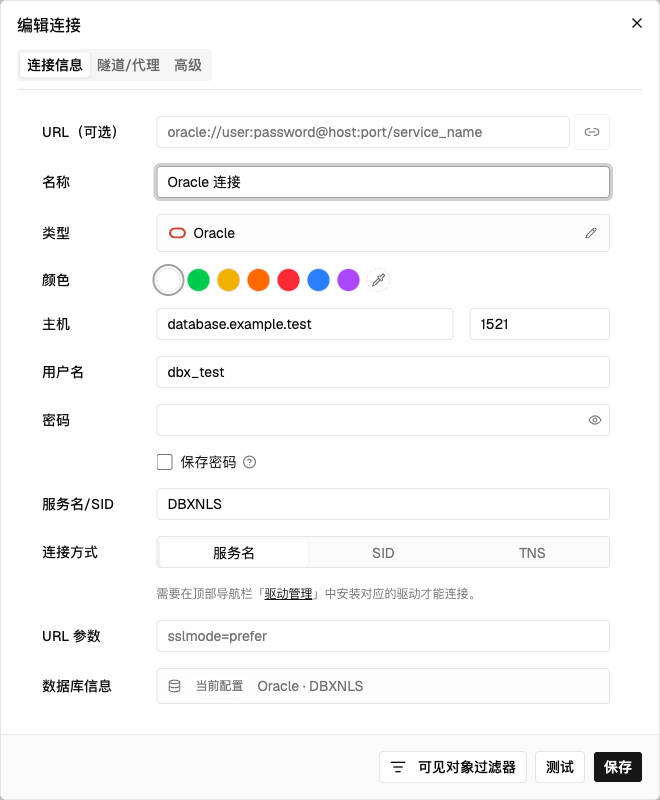
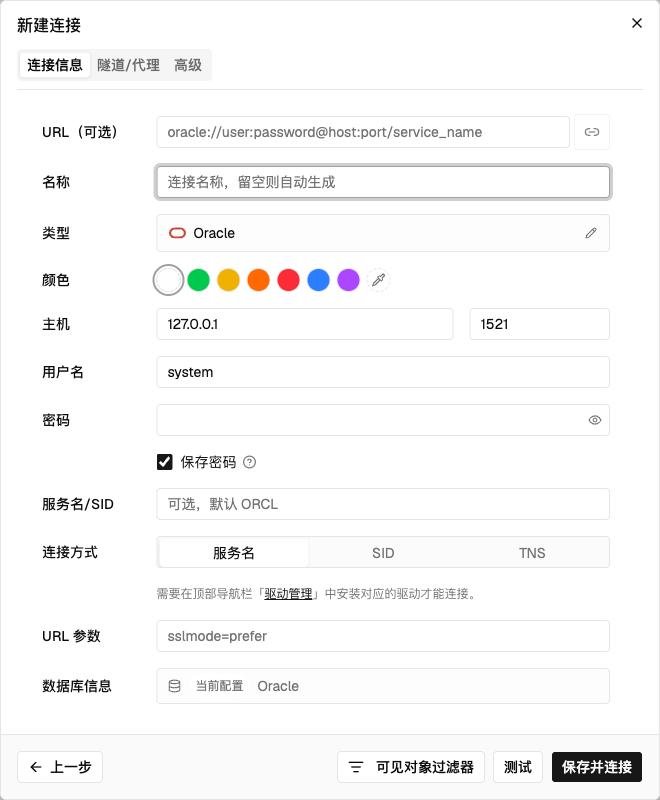
fix(connection): clarify advanced headings and hide detailed URL help

diff --git a/apps/desktop/src/components/connection/ConnectionDialog.vue b/apps/desktop/src/components/connection/ConnectionDialog.vue
@@ -3996,7 +3996,12 @@ const tlsCapableDatabaseTypes = new Set<DatabaseType>([
 const supportsTlsToggle = computed(() => tlsCapableDatabaseTypes.has(form.value.db_type) || supportsMysqlTlsTab(form.value.db_type, selectedType.value));
 const supportsCaCertificatePath = computed(() => form.value.db_type === "clickhouse" || form.value.db_type === "victoriametrics");
 const supportsGenericUrlParams = computed(() => form.value.db_type !== "manticoresearch" && form.value.db_type !== "hbase" && form.value.db_type !== "nebula");
-const showGenericUrlParamsHint = computed(() => form.value.db_type === "mysql" || form.value.db_type === "doris" || form.value.db_type === "starrocks");
+const genericUrlParamsHints = computed(() => {
+  const hints: string[] = [];
+  if (["mysql", "doris", "starrocks"].includes(form.value.db_type)) hints.push(t("connection.localInfilePathHint"));
+  if (form.value.db_type === "mysql") hints.push(t("connection.sessionVariablesHint"));
+  return hints;
+});
 const bareMysqlProfiles = new Set(["doris", "selectdb", "oceanbase"]);
 const supportsMysqlTlsOptions = computed(() => mysqlTlsOptionsSupported(form.value.db_type, selectedType.value));
 const supportsMysqlCleartextPasswordAuth = computed(() => form.value.db_type === "mysql" && !bareMysqlProfiles.has(selectedType.value));
@@ -9872,8 +9877,13 @@ function openExternalUrl(url: string) {
                       </div>
                     </div>
 
-                    <div v-if="supportsGenericUrlParams" class="connection-url-params-row grid grid-cols-4 items-start gap-4" :class="{ 'connection-url-params-row--compact': !showGenericUrlParamsHint, 'connection-url-params-row--with-hint': showGenericUrlParamsHint }">
-                      <Label for="connection-url-params" :class="[connectionLabelClass, 'connection-url-params-label min-h-8']">{{ t("connection.urlParams") }}</Label>
+                    <div v-if="supportsGenericUrlParams" class="connection-url-params-row grid grid-cols-4 items-start gap-4">
+                      <div :class="[connectionLabelClass, 'connection-url-params-label inline-flex min-h-8 items-center gap-1']">
+                        <Label for="connection-url-params">{{ t("connection.urlParams") }}</Label>
+                        <HelpTooltip v-if="genericUrlParamsHints.length" :label="genericUrlParamsHints.join('\n\n')" side="right" content-class="w-[min(400px,calc(100vw-32px))] max-w-none space-y-3 break-words">
+                          <p v-for="hint in genericUrlParamsHints" :key="hint">{{ hint }}</p>
+                        </HelpTooltip>
+                      </div>
                       <div class="col-span-3 space-y-1.5">
                         <Input
                           id="connection-url-params"
@@ -9904,12 +9914,6 @@ function openExternalUrl(url: string) {
                                                   : 'sslmode=prefer'
                           "
                         />
-                        <p v-if="showGenericUrlParamsHint" class="text-xs leading-5 text-muted-foreground">
-                          {{ t("connection.localInfilePathHint") }}
-                        </p>
-                        <p v-if="form.db_type === 'mysql'" class="text-xs leading-5 text-muted-foreground">
-                          {{ t("connection.sessionVariablesHint") }}
-                        </p>
                       </div>
                     </div>
 
@@ -10710,8 +10714,8 @@ function openExternalUrl(url: string) {
                     </p>
                   </div>
                 </div>
-                <section class="grid content-start gap-4 rounded-lg border p-4">
-                  <h3 class="text-sm font-medium">{{ t("connection.advancedConnectionBehavior") }}</h3>
+                <section class="connection-advanced-section grid content-start gap-4 rounded-lg border p-4">
+                  <h3 class="text-base font-bold">{{ t("connection.advancedConnectionBehavior") }}</h3>
                   <div class="grid grid-cols-4 items-center gap-4">
                     <Label :class="connectionLabelSmallClass">{{ t("connection.connectTimeout") }}</Label>
                     <div class="col-span-3 grid grid-cols-2 gap-2">
@@ -10819,8 +10823,8 @@ function openExternalUrl(url: string) {
                     </div>
                   </div>
                 </section>
-                <section class="grid content-start gap-4 rounded-lg border p-4">
-                  <h3 class="text-sm font-medium">{{ t("connection.advancedOperationProtection") }}</h3>
+                <section class="connection-advanced-section grid content-start gap-4 rounded-lg border p-4">
+                  <h3 class="text-base font-bold">{{ t("connection.advancedOperationProtection") }}</h3>
                   <div class="grid grid-cols-4 items-center gap-4">
                     <Label :class="connectionLabelSmallClass">
                       <span class="inline-flex items-center gap-1">{{ t("connection.readOnly") }} <HelpTooltip :label="t('connection.readOnlyExplanation')" /></span>
@@ -10886,8 +10890,11 @@ function openExternalUrl(url: string) {
                     </label>
                   </div>
                 </section>
-                <section v-if="supportsDoltSystemTables || isSchemaAware(form.db_type) || supportsOracleDatabaseLinks(form.db_type) || sidebarVisibilitySettings.length > 0 || supportsAutomaticTableLoading || form.db_type === 'redis'" class="grid content-start gap-4 rounded-lg border p-4">
-                  <h3 class="text-sm font-medium">{{ t("connection.advancedObjectBrowsing") }}</h3>
+                <section
+                  v-if="supportsDoltSystemTables || isSchemaAware(form.db_type) || supportsOracleDatabaseLinks(form.db_type) || sidebarVisibilitySettings.length > 0 || supportsAutomaticTableLoading || form.db_type === 'redis'"
+                  class="connection-advanced-section grid content-start gap-4 rounded-lg border p-4"
+                >
+                  <h3 class="text-base font-bold">{{ t("connection.advancedObjectBrowsing") }}</h3>
                   <div v-if="supportsDoltSystemTables" class="grid grid-cols-4 items-center gap-4">
                     <Label :class="connectionLabelSmallClass">{{ t("connection.doltShowSystemTables") }}</Label>
                     <label class="col-span-3 flex items-center gap-2 cursor-pointer">
@@ -10964,8 +10971,8 @@ function openExternalUrl(url: string) {
                     </div>
                   </div>
                 </section>
-                <section v-if="form.db_type === 'oracle'" class="grid content-start gap-4 rounded-lg border p-4">
-                  <h3 class="text-sm font-medium">{{ t("connection.advancedCompatibility") }}</h3>
+                <section v-if="form.db_type === 'oracle'" class="connection-advanced-section grid content-start gap-4 rounded-lg border p-4">
+                  <h3 class="text-base font-bold">{{ t("connection.advancedCompatibility") }}</h3>
                   <div class="grid grid-cols-4 items-start gap-4">
                     <Label :class="connectionLabelSmallPaddedClass">
                       <span class="inline-flex items-center gap-1">{{ t("connection.oracleLegacyCharset") }} <HelpTooltip :label="t('connection.oracleLegacyCharsetHint')" /></span>
@@ -11847,6 +11854,15 @@ html.dbx-legacy-webview.dark .connection-transport-layer-option--selected:hover 
 
 .connection-dialog-content[data-wide="true"] .grid.grid-cols-4 {
   grid-template-columns: minmax(5.5rem, 0.7fr) repeat(3, minmax(0, 1fr));
+}
+
+/* Group padding reduces the label space; keep short labels on one line. */
+.connection-dialog-content .connection-advanced-section > .grid.grid-cols-4 {
+  grid-template-columns: minmax(7.5rem, 1fr) repeat(3, minmax(0, 1fr));
+}
+
+.connection-advanced-section > .grid > [data-slot="label"] {
+  text-wrap: balance;
 }
 
 .connection-dialog-content[data-wide="true"] .connection-form-body {
